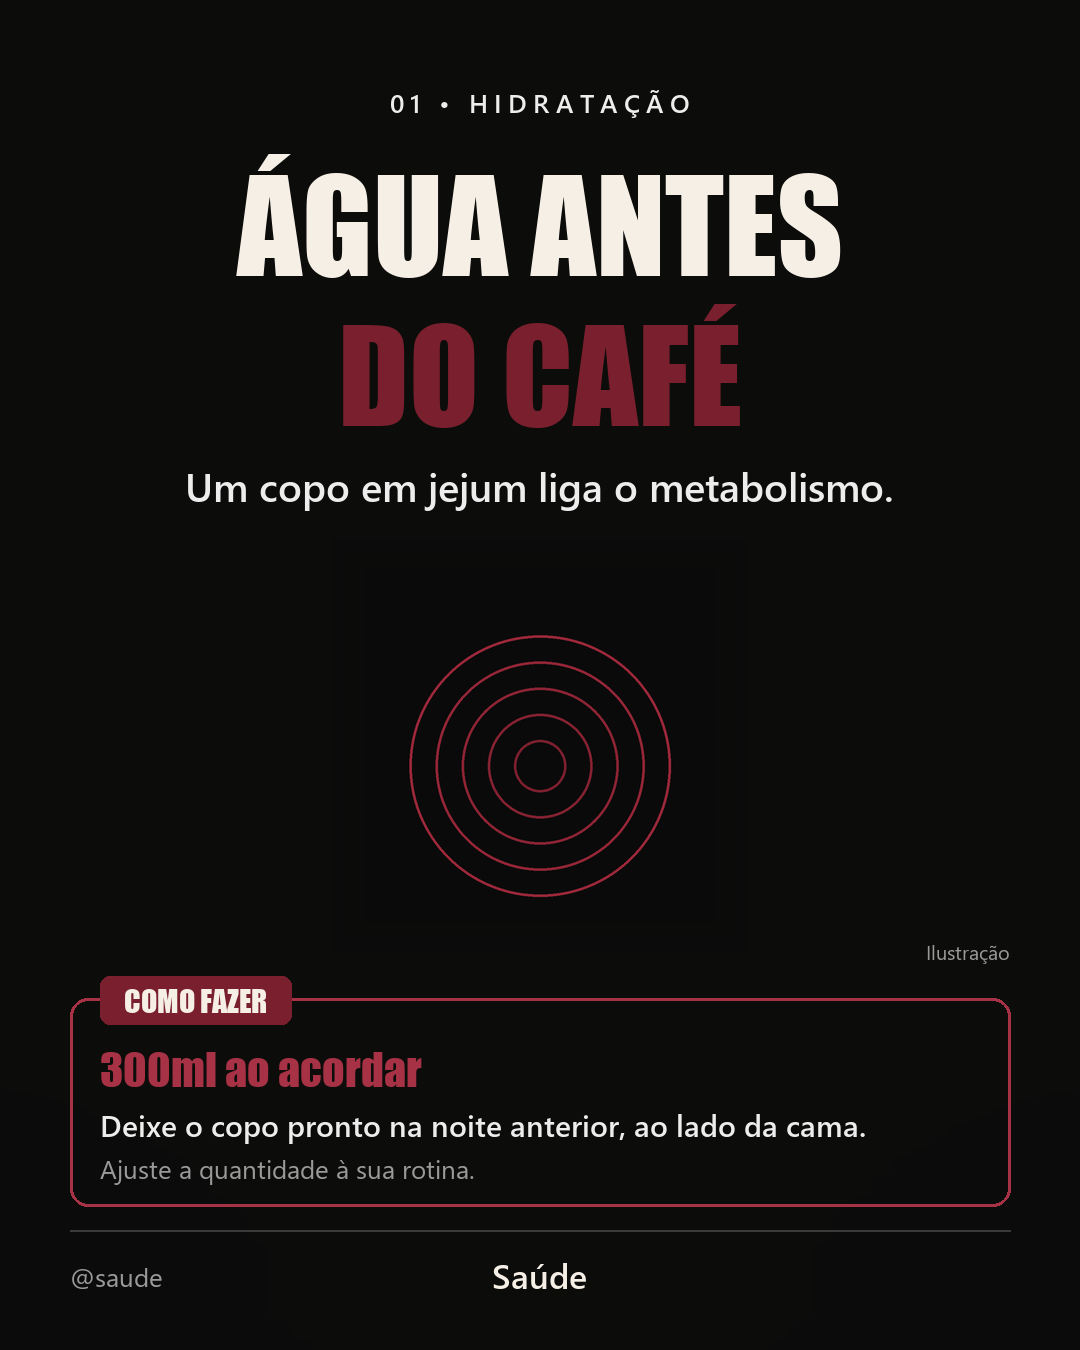
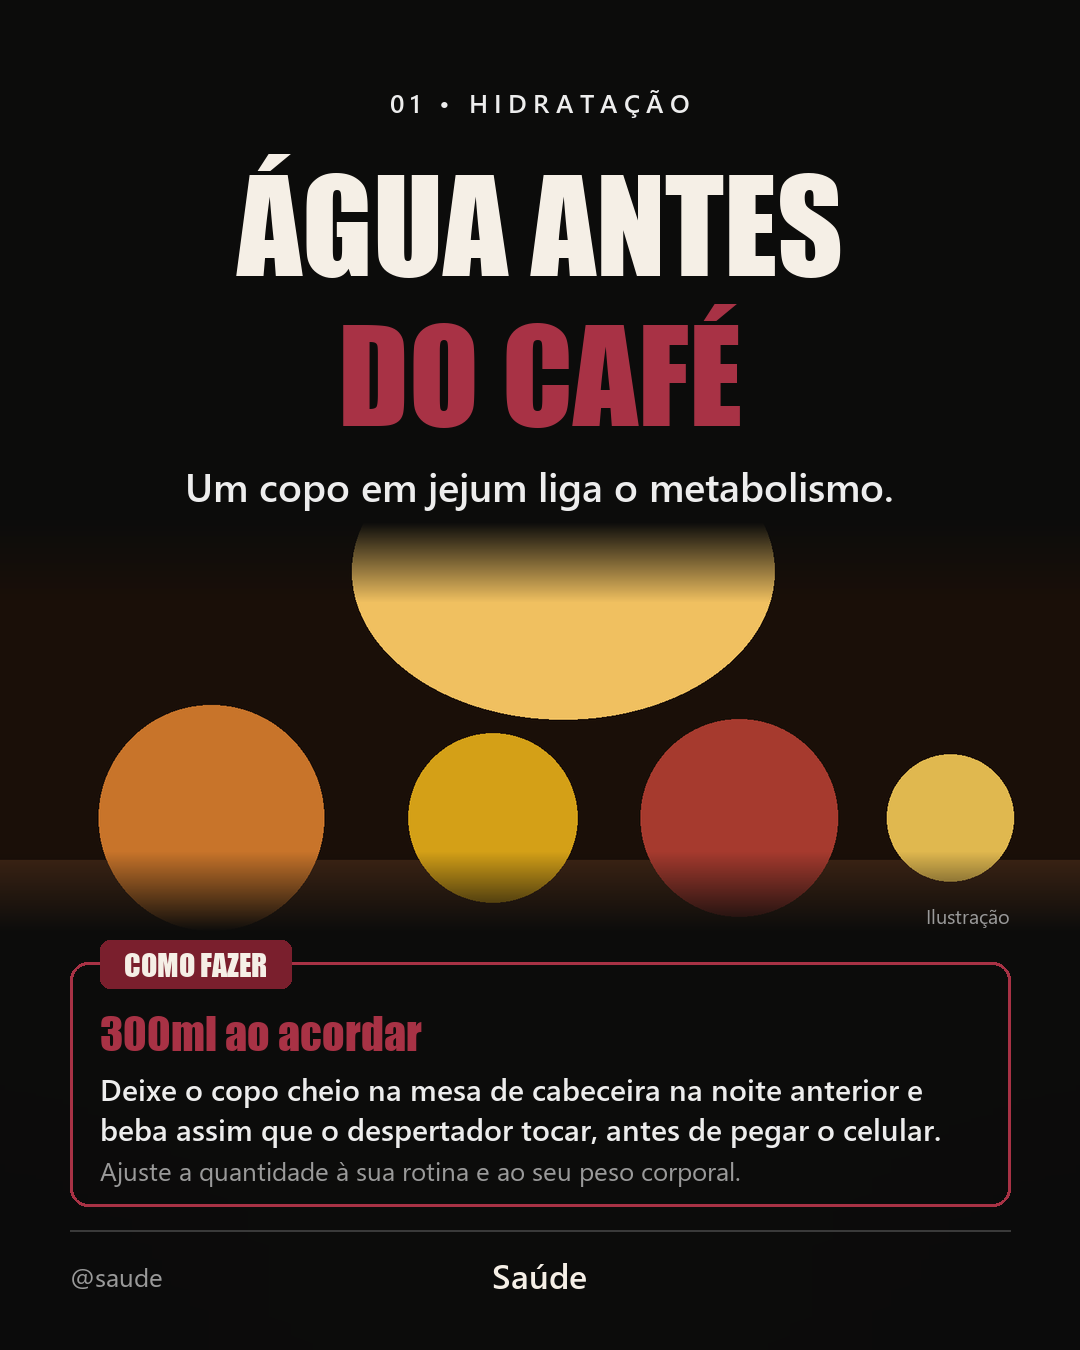
Ajustes do primeiro teste real: imagem grande e viva, contraste e processo
- Modelo 1: imagem gerada em paisagem (1536x1024) cobre a largura toda do
  card (cover-crop + bordas esfumadas), nunca escurecida ou encolhida
- Prompt do Modelo 1 trocado: cena com varios objetos sobre mesa e estante
  desfocada, em vez de objeto isolado em pedestal
- Cores de destaque escuras nao somem mais: textos usam destaque_claro
  automaticamente (padrao aceso #C8374F) e a skill checa contraste no Passo 1
- Caixa COMO FAZER com altura dinamica; limites documentados (2 linhas de
  passos, 1 de nota)
- Regras novas no estilo: sem contador 1/10, sem emoji nas laminas, recap
  sempre com imagem-composicao, imagem ilustra o card ao pe da letra,
  texto sobre imagem permitido desde que legivel
- Processo: Passo 0 (contexto do perfil tem prioridade), lamina-piloto
  aprovada antes do lote, versoes anteriores preservadas em v1/,
  verificacao de fontes + legenda-e-fontes.md na entrega

Changed region(s): [[0.0, 0.3733, 1.0, 0.8711], [0.3056, 0.2178, 0.7028, 0.3422]]

diff --git a/.claude/skills/carrossel-instagram/scripts/montar_slide.py b/.claude/skills/carrossel-instagram/scripts/montar_slide.py
@@ -17,6 +17,14 @@ MODELO 2 (Imersivo, full-bleed, texto a esquerda) — campos por lamina:
 
 Json comum: tema, handle, marca, saida, paleta {fundo, titulo, destaque,
 destaque_claro, texto, nota}. Caminhos relativos ao proprio json.
+
+Limites e regras:
+- caixa.passos: no maximo 2 linhas renderizadas; caixa.nota: 1 linha (o excedente e cortado).
+- NAO use emoji nos textos das laminas — as fontes nao renderizam (viram quadrados).
+- Se a cor de destaque for escura (some no preto), os TEXTOS de destaque usam
+  automaticamente destaque_claro; preenchimentos mantem a cor original.
+- Modelo 1: a imagem cobre a largura toda do card, sem escurecimento (gere em paisagem,
+  1536x1024). Modelo 2: a imagem cobre a lamina inteira (gere em retrato, 1024x1536).
 """
 
 import json
@@ -121,12 +129,24 @@ def texto_espacado(draw, cx, y, texto, f, cor, espaco=6):
         x += lg + espaco
 
 
-def cor_contraste(hex_cor):
-    """Texto escuro sobre preenchimento claro; texto claro sobre escuro."""
+def _luminancia(hex_cor):
     h = hex_cor.lstrip("#")
     r, g, b = int(h[0:2], 16), int(h[2:4], 16), int(h[4:6], 16)
-    lum = 0.299 * r + 0.587 * g + 0.114 * b
-    return "#141414" if lum > 150 else "#F5EFE6"
+    return 0.299 * r + 0.587 * g + 0.114 * b
+
+
+def cor_contraste(hex_cor):
+    """Texto escuro sobre preenchimento claro; texto claro sobre escuro."""
+    return "#141414" if _luminancia(hex_cor) > 150 else "#F5EFE6"
+
+
+def cor_destaque_texto(pal):
+    """Cor de destaque para TEXTO sobre fundo escuro: se a cor for escura demais
+    (some no preto), usa a versao acesa (destaque_claro). Preenchimentos continuam
+    usando a cor original."""
+    if _luminancia(pal["destaque"]) < 100:
+        return pal.get("destaque_claro", pal["destaque"])
+    return pal["destaque"]
 
 
 def fundo_texturizado(cor_hex):
@@ -156,23 +176,24 @@ def pilula(d, x, y, texto, f, preenchimento, cor_texto, pad_x=26, pad_y=12):
 # ---------------------------------------------------------------- MODELO 1
 
 def colar_imagem(canvas, caminho, topo, base):
+    """Cobre a LARGURA TODA do card entre topo e base: escala para cobrir, corta o
+    excesso de altura e esfuma so as bordas superior/inferior para fundir no fundo.
+    A imagem NUNCA e escurecida — ela deve ficar viva e colorida."""
     try:
         img = Image.open(caminho).convert("RGB")
     except OSError:
         return topo
-    alt_max = max(base - topo, 100)
-    escala = min(W / img.width, alt_max / img.height)
-    img = img.resize((int(img.width * escala), int(img.height * escala)), Image.LANCZOS)
+    alt_disp = max(base - topo, 100)
+    img = cobrir(img, W, alt_disp)
     masc = Image.new("L", img.size, 255)
     dm = ImageDraw.Draw(masc)
-    borda = 60
+    borda = 80
     for i in range(borda):
         opac = int(255 * i / borda)
-        dm.rectangle([i, i, img.width - 1 - i, img.height - 1 - i], outline=opac)
-    x = (W - img.width) // 2
-    y = topo + (alt_max - img.height) // 2
-    canvas.paste(img, (x, y), masc)
-    return y + img.height
+        dm.line([(0, i), (img.width, i)], fill=opac)
+        dm.line([(0, img.height - 1 - i), (img.width, img.height - 1 - i)], fill=opac)
+    canvas.paste(img, (0, topo), masc)
+    return topo + alt_disp
 
 
 def montar_m1(spec, pal, meta, dir_base):
@@ -190,7 +211,7 @@ def montar_m1(spec, pal, meta, dir_base):
     for linha in spec.get("titulo", []):
         txt = linha["texto"].upper()
         f = fonte_ajustada(d, txt, FONTES_TITULO, 128, LARG_UTIL)
-        cor = pal["destaque"] if linha.get("destaque") else pal["titulo"]
+        cor = cor_destaque_texto(pal) if linha.get("destaque") else pal["titulo"]
         d.text((cx, y), txt, font=f, fill=cor, anchor="ma")
         y += alt(d, txt, f) + 26
     y += 12
@@ -211,8 +232,17 @@ def montar_m1(spec, pal, meta, dir_base):
     if extra:
         y_reservado -= 56
     alt_caixa = 0
+    caixa_passos = []
+    caixa_nota = None
     if caixa:
-        alt_caixa = 150 + (58 if caixa.get("nota") else 0)
+        if caixa.get("passos"):
+            caixa_passos = quebrar(d, caixa["passos"], fonte(FONTES_CORPO_BOLD, 30),
+                                   LARG_UTIL - 60)[:2]  # limite: 2 linhas
+        if caixa.get("nota"):
+            caixa_nota = quebrar(d, caixa["nota"], fonte(FONTES_CORPO, 26),
+                                 LARG_UTIL - 60)[0]  # limite: 1 linha
+        alt_caixa = (44 + (62 if caixa.get("url") else 0)
+                     + 40 * len(caixa_passos) + (44 if caixa_nota else 0) + 14)
         y_reservado -= alt_caixa + 30
 
     if lista:
@@ -251,14 +281,14 @@ def montar_m1(spec, pal, meta, dir_base):
             f = fonte(FONTES_TITULO, 44)
             d.text((MARGEM + 30, yc), caixa["url"], font=f, fill=pal["destaque_claro"])
             yc += 62
-        if caixa.get("passos"):
+        if caixa_passos:
             f = fonte(FONTES_CORPO_BOLD, 30)
-            for ln in quebrar(d, caixa["passos"], f, LARG_UTIL - 60)[:2]:
+            for ln in caixa_passos:
                 d.text((MARGEM + 30, yc), ln, font=f, fill=pal["texto"])
                 yc += 40
-        if caixa.get("nota"):
+        if caixa_nota:
             f = fonte(FONTES_CORPO, 26)
-            d.text((MARGEM + 30, yc + 6), caixa["nota"], font=f, fill=pal["nota"])
+            d.text((MARGEM + 30, yc + 4), caixa_nota, font=f, fill=pal["nota"])
 
     if extra:
         f = fonte(FONTES_CORPO_BOLD, 28)
@@ -469,7 +499,7 @@ def main():
         spec = json.load(f)
 
     pal = {"fundo": "#0A0A0A", "titulo": "#F5EFE6", "destaque": "#7A1F2D",
-           "destaque_claro": "#A83245", "texto": "#EDEDED", "nota": "#9A9A9A"}
+           "destaque_claro": "#C8374F", "texto": "#EDEDED", "nota": "#9A9A9A"}
     pal.update(spec.get("paleta", {}))
     dir_saida = os.path.join(dir_base, spec.get("saida", "finais"))
     os.makedirs(dir_saida, exist_ok=True)

diff --git a/.claude/skills/carrossel-instagram/SKILL.md b/.claude/skills/carrossel-instagram/SKILL.md
@@ -16,6 +16,14 @@ Scripts desta skill (rodar com `python`):
 - `scripts/montar_slide.py` — compõe as lâminas finais 1080x1350 (Pillow) a partir de um
   `slides.json`. Suporta os dois modelos (`"modelo": 1` ou `2`).
 
+## Passo 0 — Contexto do perfil (antes de qualquer padrão)
+
+Procure no diretório de trabalho arquivos de contexto/estratégia do perfil
+(`CONTEXTO*`, `briefing*`, `estrategia*`, manual de marca, `CLAUDE.md` com dados do perfil).
+Se existirem, leia ANTES de tudo: paleta, tom de voz e roteiro definidos ali têm
+PRIORIDADE sobre os padrões desta skill. Só ofereça os padrões abaixo no que o contexto
+não cobrir.
+
 ## Passo 1 — Paleta de cores
 
 Padrão da skill: **fundo preto (#0A0A0A) + destaque vinho (#7A1F2D)**. Se o usuário tiver
@@ -24,9 +32,14 @@ AskUserQuestion antes de seguir:
 
 1. **(Recomendado)** Cor da marca como destaque + off-white (#F5EFE6) no restante do título —
    equivale ao papel do dourado nos carrosséis de referência e garante leitura no feed.
-   Cores escuras em texto pequeno sobre preto têm contraste baixo.
 2. Tudo na cor de destaque (avise do contraste se ela for escura).
 3. Outra paleta (usuário informa).
+
+**Cheque o contraste antes de fechar:** cores de destaque escuras (vinho #7A1F2D,
+bordô #6B1F2E) somem no fundo preto quando usadas em TEXTO. Se a cor escolhida for
+escura, avise e proponha uma versão mais acesa para os textos (ex.: #6B1F2E → #C8374F),
+definindo-a como `destaque_claro` no slides.json — os preenchimentos podem manter a
+cor original. O `montar_slide.py` também aplica essa troca automaticamente por segurança.
 
 Guarde a paleta escolhida; ela entra no `slides.json` e nos prompts de imagem
 (se a luz da cena deve ser dourada ou em tons vinho/borgonha). Nos elementos PREENCHIDOS
@@ -69,6 +82,10 @@ gerar salvamentos / compartilhamentos / levar para link. Isso define as 2 últim
 - **Lâmina N (CTA):** conforme o objetivo — seguir, comprar, acessar link.
   Termina com pergunta de engajamento.
 
+Regras de texto: SEM emoji nos textos das lâminas (as fontes do script não renderizam —
+viram quadrados; emoji só na legenda do post) e sem contador de páginas tipo "1/10"
+(nas referências ele era da interface do Instagram, não da arte).
+
 Apresente o roteiro completo (título + subtítulo/corpo de cada lâmina + teasers) em texto
 e valide com o usuário antes de gerar qualquer imagem.
 
@@ -77,14 +94,20 @@ e valide com o usuário antes de gerar qualquer imagem.
 Para cada lâmina, gere um prompt em INGLÊS usando o template do modelo escolhido em
 `references/estilo-visual.md` (seção "Templates de prompt"). Regras de ouro:
 
-- **Modelo 1:** objeto 3D em pedestal, fundo PRETO ABSOLUTO (funde com o canvas),
-  luz dramática. A imagem ocupa só o miolo da lâmina.
-- **Modelo 2:** cena cinematográfica FULL-FRAME (vira o fundo inteiro da lâmina),
-  objetos principais à DIREITA, terço esquerdo escuro e limpo para receber o texto,
-  atmosfera quente e emocional. Telas de celular/notebook podem mostrar a interface citada.
+- **Modelo 1 (PAISAGEM, `--size 1536x1024`):** CENA viva sobre mesa/bancada — vários
+  objetos ligados ao assunto, bem iluminados, cores ricas, ocupando boa parte do quadro;
+  fundo escuro com estante desfocada sumindo no preto nas bordas. NADA de objeto isolado
+  em pedestal com fundo preto absoluto (fica vazio e apagado). A imagem cobre a largura
+  toda do card, sem escurecimento.
+- **Modelo 2 (RETRATO, `--size 1024x1536`):** cena cinematográfica FULL-FRAME (vira o
+  fundo inteiro da lâmina), assuntos principais tendendo à direita — o script escurece a
+  área do texto, então a cena pode ocupar o quadro todo.
+- **A imagem ilustra o card ao pé da letra**: "custa caro" → etiqueta de preço rasgada;
+  curso online → notebook exibindo a aula. Telas de celular/notebook mostram interface
+  genérica desfocada, sem texto legível.
+- **Recap:** composição reunindo todos os objetos do carrossel (lista sem imagem fica vazia).
 - Cor da luz conforme a paleta do Passo 1 (dourado âmbar OU vinho/borgonha).
 - A imagem NÃO deve conter texto — todo texto é aplicado depois pelo `montar_slide.py`.
-- Formato retrato 1024x1536.
 
 Salve todos os prompts em `<pasta do tema>/prompts.md` (um bloco por lâmina, numerado).
 
@@ -95,13 +118,18 @@ Salve todos os prompts em `<pasta do tema>/prompts.md` (um bloco por lâmina, nu
 2. Se não achar, peça ao usuário para colar a chave num `.env` (explique: criar arquivo `.env`
    com `OPENAI_API_KEY=sk-...`). Se ele não quiser, siga SEM imagens (Modelo 1 aguenta
    lâminas só tipográficas; no Modelo 2 o fundo vira o preto texturizado).
-3. **Qualidade: use `low` (o padrão do script).** Só suba para `medium` se o usuário pedir
-   mais qualidade — e nesse caso proponha a troca informando os preços médios (gpt-image-1,
-   1024x1536): low ≈ US$ 0,016/imagem (carrossel de 9 ≈ US$ 0,14) e medium ≈ US$ 0,063/imagem
-   (carrossel de 9 ≈ US$ 0,57). Dica de fluxo: rascunhe tudo em low e regenere em medium
-   apenas as lâminas aprovadas.
-4. Com chave, rode para cada lâmina:
-   `python <skill>/scripts/gerar_imagem.py --prompt-file <arquivo.txt> --out "<tema>/imagens/NN.png"`
+3. **Qualidade: use `low` (o padrão do script).** Low dá conta desde que o prompt peça
+   cena viva e colorida (imagem apagada vem de prompt ruim/escurecimento, não da
+   qualidade). Só suba para `medium` se o usuário pedir mais qualidade — e nesse caso
+   proponha a troca informando os preços médios (gpt-image-1): low ≈ US$ 0,016/imagem
+   (carrossel de 9 ≈ US$ 0,14) e medium ≈ US$ 0,063/imagem (carrossel de 9 ≈ US$ 0,57).
+4. **Lâmina-piloto ANTES do lote:** gere a imagem de UMA lâmina representativa
+   (`--size 1536x1024` no Modelo 1, `1024x1536` no Modelo 2), monte-a com o
+   `montar_slide.py` e mostre ao usuário para aprovar o visual. Só depois da aprovação
+   gere as imagens das demais lâminas — isso evita queimar uma rodada inteira de
+   imagens com um estilo errado.
+5. Com chave e piloto aprovado, rode para cada lâmina restante:
+   `python <skill>/scripts/gerar_imagem.py --prompt-file <arquivo.txt> --size <do modelo> --out "<tema>/imagens/NN.png"`
    (aceita `--env-file` para apontar o `.env` e `--quality medium` para o upgrade).
    Rode em série; se uma falhar, tente 1 vez de novo e siga em frente sem ela,
    avisando no final.
@@ -114,20 +142,28 @@ Salve todos os prompts em `<pasta do tema>/prompts.md` (um bloco por lâmina, nu
 2. Rode: `python <skill>/scripts/montar_slide.py "<tema>/slides.json"` —
    gera as artes finais 1080x1350 em `<tema>/finais/`.
 3. Confira visualmente (Read nas PNGs geradas). Cheque: título não cortado, contraste ok,
-   numeração/teasers certos, barra de progresso coerente (Modelo 2). Ajuste o JSON e
-   rode de novo se preciso.
+   numeração/teasers certos, barra de progresso coerente (Modelo 2), imagem ocupando a
+   largura do card sem ficar apagada (Modelo 1). Ajuste o JSON e rode de novo se preciso.
+4. **Ao refazer lâminas já entregues**, preserve a versão anterior movendo-a para uma
+   subpasta (`<tema>/v1/`, `v2/`...) antes de sobrescrever — o usuário pode querer comparar.
 
-## Passo 7 — Entrega
+## Passo 7 — Verificação e entrega
 
-Organize tudo em uma pasta com o nome do tema (no diretório de trabalho do usuário):
+1. **Verifique as informações citadas**: todo site, URL, preço ou passo a passo que
+   aparece nas lâminas deve ser conferido na fonte oficial (WebFetch/WebSearch) antes
+   da entrega — nada de instrução inventada.
+2. Escreva `<tema>/legenda-e-fontes.md` com: a legenda sugerida do post (aqui SIM pode
+   emoji) + hashtags do nicho + a lista das fontes consultadas na verificação.
+3. Organize tudo em uma pasta com o nome do tema (no diretório de trabalho do usuário):
 
 ```
 <Nome do Tema>/
-  finais/        01.png ... NN.png  ← artes prontas para postar
-  imagens/       NN.png             ← imagens brutas da IA
+  finais/               01.png ... NN.png  ← artes prontas para postar
+  imagens/              NN.png             ← imagens brutas da IA
   prompts.md
   slides.json
+  legenda-e-fontes.md
+  v1/                   (versões anteriores, quando houver refação)
 ```
 
-Liste para o usuário todos os arquivos gerados (caminhos clicáveis), na ordem de postagem,
-e entregue de bônus uma sugestão de legenda com hashtags do nicho.
+Liste para o usuário todos os arquivos gerados (caminhos clicáveis), na ordem de postagem.

diff --git a/.claude/skills/carrossel-instagram/references/estilo-visual.md b/.claude/skills/carrossel-instagram/references/estilo-visual.md
@@ -19,6 +19,18 @@ já contém tudo o que é necessário para reproduzir os estilos.
 4. Penúltima lâmina = recap em lista; última = CTA da marca + pergunta de engajamento.
 5. TODAS as imagens do carrossel com a mesma luz e atmosfera → parece uma coleção.
 6. Selo fino "Ilustração" quando a imagem for de IA (honestidade visual).
+7. **Imagem grande e VIVA**: a imagem ocupa boa parte da lâmina, com cores ricas e bem
+   iluminada. NUNCA escurecer nem encolher a imagem para "caber" — o script já corta e
+   esfuma as bordas. Texto por cima da imagem é permitido, desde que continue legível
+   (o layout garante o fundo escuro atrás do texto onde precisa).
+8. **A imagem ilustra o card ao pé da letra**: "custa caro" → etiqueta de preço rasgada;
+   curso online de enfermagem → notebook exibindo a aula. Nada de imagem genérica.
+9. **Sem contador de páginas** ("1/10"): nas referências ele era da interface do
+   Instagram (eram prints), NÃO faz parte da arte. Não desenhar.
+10. **Sem emoji nos textos das lâminas** — as fontes não renderizam (viram quadrados).
+    Emoji só na legenda do post.
+11. **Recap sempre com imagem**: uma composição reunindo todos os objetos do carrossel;
+    lista sozinha deixa a lâmina vazia.
 
 ---
 
@@ -33,8 +45,8 @@ Quando usar: ferramentas, listas práticas, tutoriais, "N sites/apps/dicas que..
 | Kicker | `NN • NOME DA COISA` | caps, letter-spacing largo, ~26px |
 | Título | 2 linhas MAIÚSCULAS | condensado ultra-bold, ~110-130px; 1 linha clara + 1 linha na COR DE DESTAQUE |
 | Subtítulo | 1-2 frases de apoio | ~40px, semibold, branco suave |
-| Imagem | render 3D central | miolo da lâmina; fundo preto da imagem funde com o canvas |
-| Caixa info | "COMO ABRIR"/"COMO FAZER" | pill do título no destaque, URL grande bold, passos curtos, nota fina; borda arredondada |
+| Imagem | cena horizontal viva | cobre a LARGURA TODA do card (gerar em paisagem 1536x1024); o script corta o excesso de altura e esfuma as bordas; nunca escurecer |
+| Caixa info | "COMO ABRIR"/"COMO FAZER" | pill do título no destaque, URL grande bold, passos curtos (MÁX. 2 linhas), nota fina (MÁX. 1 linha — o script corta além disso); borda arredondada |
 | Rodapé | hairline + @handle + marca | handle esquerda ~24px, marca central bold |
 
 Capa leva `Arraste e descubra →`. Recap = "SALVE ESTE POST" com lista rótulo→detalhe.
@@ -76,7 +88,7 @@ lifestyle. O carrossel vira uma "jornada" e cada lâmina puxa a próxima.
 | 1 | Capa — dor/desejo emocional | "AS HISTÓRIAS DA SUA FAMÍLIA / NÃO PRECISAM / [SE PERDER]" + sub com número em destaque + botão `Arraste pro lado »` |
 | 2..N-2 | Conteúdo | kicker tema·subtema; título = NOME da coisa; pílula URL; benefício; 2-3 parágrafos ou passos; dica ⚡; teaser `Próximo:` |
 | N-1 | Recap | título-cenário ("SALVA ANTES DO PRÓXIMO ALMOÇO DE FAMÍLIA") + lista nome→desc→pílula URL + caixa pedindo COMPARTILHAMENTO ("Manda pra quem...") |
-| N | CTA | "CONTINUA NO @MARCA" + o que tem lá + URL em pílula + pergunta de engajamento com 👇 |
+| N | CTA | "CONTINUA NO @MARCA" + o que tem lá + URL em pílula + pergunta de engajamento (sem emoji — fontes não renderizam) |
 
 Diferenças-chave vs Modelo 1: teasers "Próximo:" encadeando as lâminas; recap pede
 compartilhar (não salvar); tom emocional; texto à esquerda; cor de destaque usada em
@@ -91,35 +103,48 @@ ELEMENTOS PREENCHIDOS (pílulas/caixas), não só em letras.
 | Fundo | preto texturizado #0A0A0A | #0A0A0A |
 | Título linha clara | creme #F5EFE6 | #F5EFE6 |
 | Destaque | dourado #F2C14E / amarelo #F5B301 | **vinho #7A1F2D** (troque pela cor da marca do usuário) |
-| Destaque claro (texto pequeno) | — | #A83245 |
+| Destaque claro (textos) | — | #C8374F |
 | Corpo/subtítulo | branco #EDEDED | #EDEDED |
 | Nota fina | cinza #9A9A9A | #9A9A9A |
 
-Contraste: vinho #7A1F2D sobre preto funciona em texto GRANDE; em texto pequeno use
-#A83245 ou branco. Em pílulas preenchidas o `montar_slide.py` decide sozinho a cor do
-texto (claro sobre vinho, escuro sobre amarelo) pela luminância do preenchimento.
+Contraste — regra prática: cores de destaque ESCURAS (vinho #7A1F2D, bordô #6B1F2E)
+somem no fundo preto quando usadas em TEXTO, inclusive em título. Sempre cheque a
+luminância antes de fechar a paleta e proponha ao usuário uma versão mais acesa para
+textos (ex.: bordô #6B1F2E → #C8374F), mantendo a escura em preenchimentos se ele quiser.
+O `montar_slide.py` já se protege sozinho: se `destaque` for escuro, os textos de
+destaque usam `destaque_claro` automaticamente; e em pílulas preenchidas ele decide a
+cor do texto (claro sobre vinho, escuro sobre amarelo) pela luminância do preenchimento.
 
 ## Templates de prompt de imagem (inglês, SEM texto na imagem)
 
-### Modelo 1 — Vitrine
+### Modelo 1 — Vitrine (gerar em PAISAGEM, `--size 1536x1024`)
 
 ```
-Photorealistic 3D render, premium museum-exhibit style: {OBJETO} displayed on a round
-dark pedestal on a dark reflective surface, {DETALHE}. Pure black background, dramatic
-{COR_LUZ} rim lighting and soft under-glow, subtle floor reflections, shallow depth of
-field, cinematic contrast, hyper-detailed, 8k product photography look. No text, no
-letters, no watermark. Vertical composition with empty dark space at top and bottom.
+Photorealistic cinematic scene on a dark wooden table: {OBJETOS} — several objects
+directly related to {ASSUNTO}, arranged naturally and filling most of the frame,
+brightly lit with warm {COR_LUZ} light, rich vivid colors. Dark background with a
+blurred bookshelf fading into black at the edges. Shallow depth of field, hyper-detailed,
+8k editorial product photography. No text, no letters, no watermark. HORIZONTAL
+landscape composition.
 ```
 
-### Modelo 2 — Imersivo
+- Cena, não objeto isolado: NADA de "um objeto num pedestal com fundo preto absoluto" —
+  isso deixa a lâmina vazia e apagada. Vários objetos do assunto, sobre mesa/bancada,
+  ocupando boa parte do quadro.
+- Se a lâmina cita um site/app, um dos objetos é um notebook ou celular exibindo uma
+  interface genérica desfocada ("blurred generic interface, no readable text").
+
+### Modelo 2 — Imersivo (gerar em RETRATO, `--size 1024x1536`)
 
 ```
-Cinematic photorealistic scene filling the entire frame: {CENA} arranged on the RIGHT
-side of a {SUPERFICIE} — {OBJETOS}. Warm {COR_LUZ} practical lighting, nostalgic
-emotional atmosphere, rich textures, shallow depth of field, 8k editorial photography.
-The LEFT third of the frame is dark, clean and out of focus, reserved as negative space.
-No text, no letters, no watermark. Vertical portrait composition.
+Cinematic photorealistic scene filling the entire frame: {CENA} on a {SUPERFICIE} —
+{OBJETOS}, with the main subjects placed right of center. Warm {COR_LUZ} practical
+lighting, emotional atmosphere, rich vivid textures, shallow depth of field, 8k
+editorial photography. No text, no letters, no watermark. Vertical portrait composition.
 ```
+
+- A cena pode ocupar o quadro inteiro — o script escurece a área do texto (scrim), então
+  não é preciso deixar o lado esquerdo vazio; basta os assuntos principais tenderem à direita.
 
 - `{COR_LUZ}`: paleta dourada → `amber-gold` | paleta vinho → `deep burgundy wine-toned`
 - Modelo 2, `{OBJETOS}`: inclua um celular/notebook mostrando a interface citada quando a
@@ -135,7 +160,7 @@ No text, no letters, no watermark. Vertical portrait composition.
   "modelo": 2, "saida": "finais",
   "paleta": {
     "fundo": "#0A0A0A", "titulo": "#F5EFE6", "destaque": "#7A1F2D",
-    "destaque_claro": "#A83245", "texto": "#EDEDED", "nota": "#9A9A9A"
+    "destaque_claro": "#C8374F", "texto": "#EDEDED", "nota": "#9A9A9A"
   },
   "slides": [
     {
